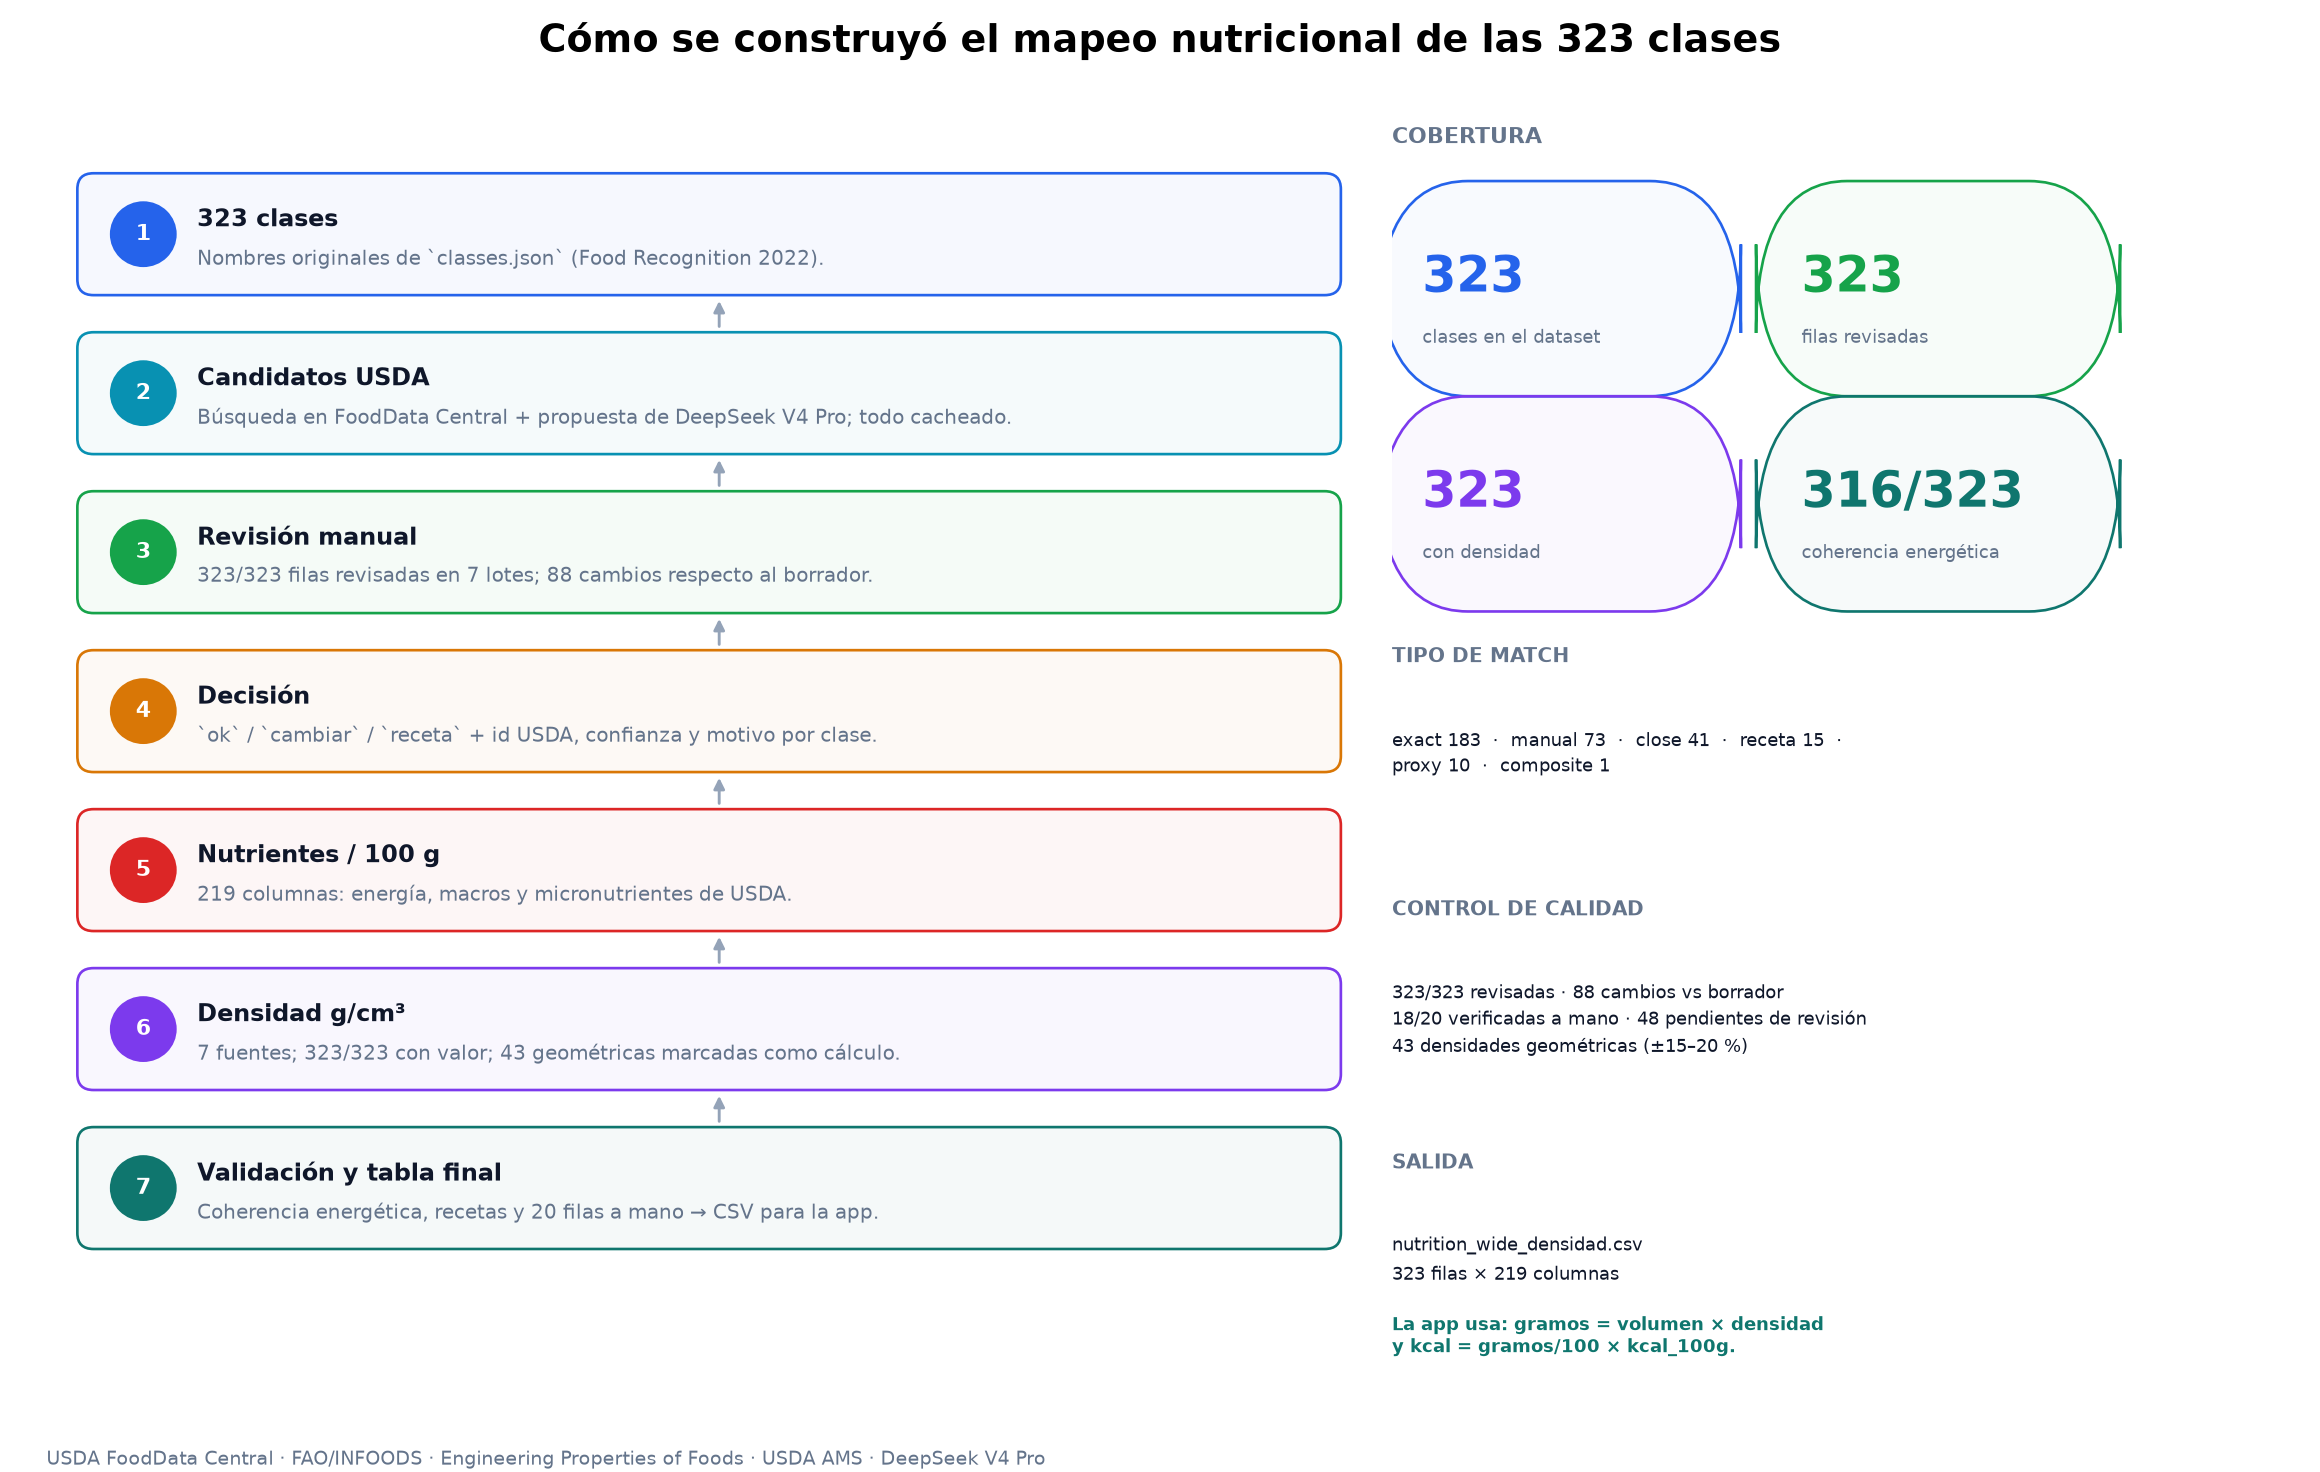
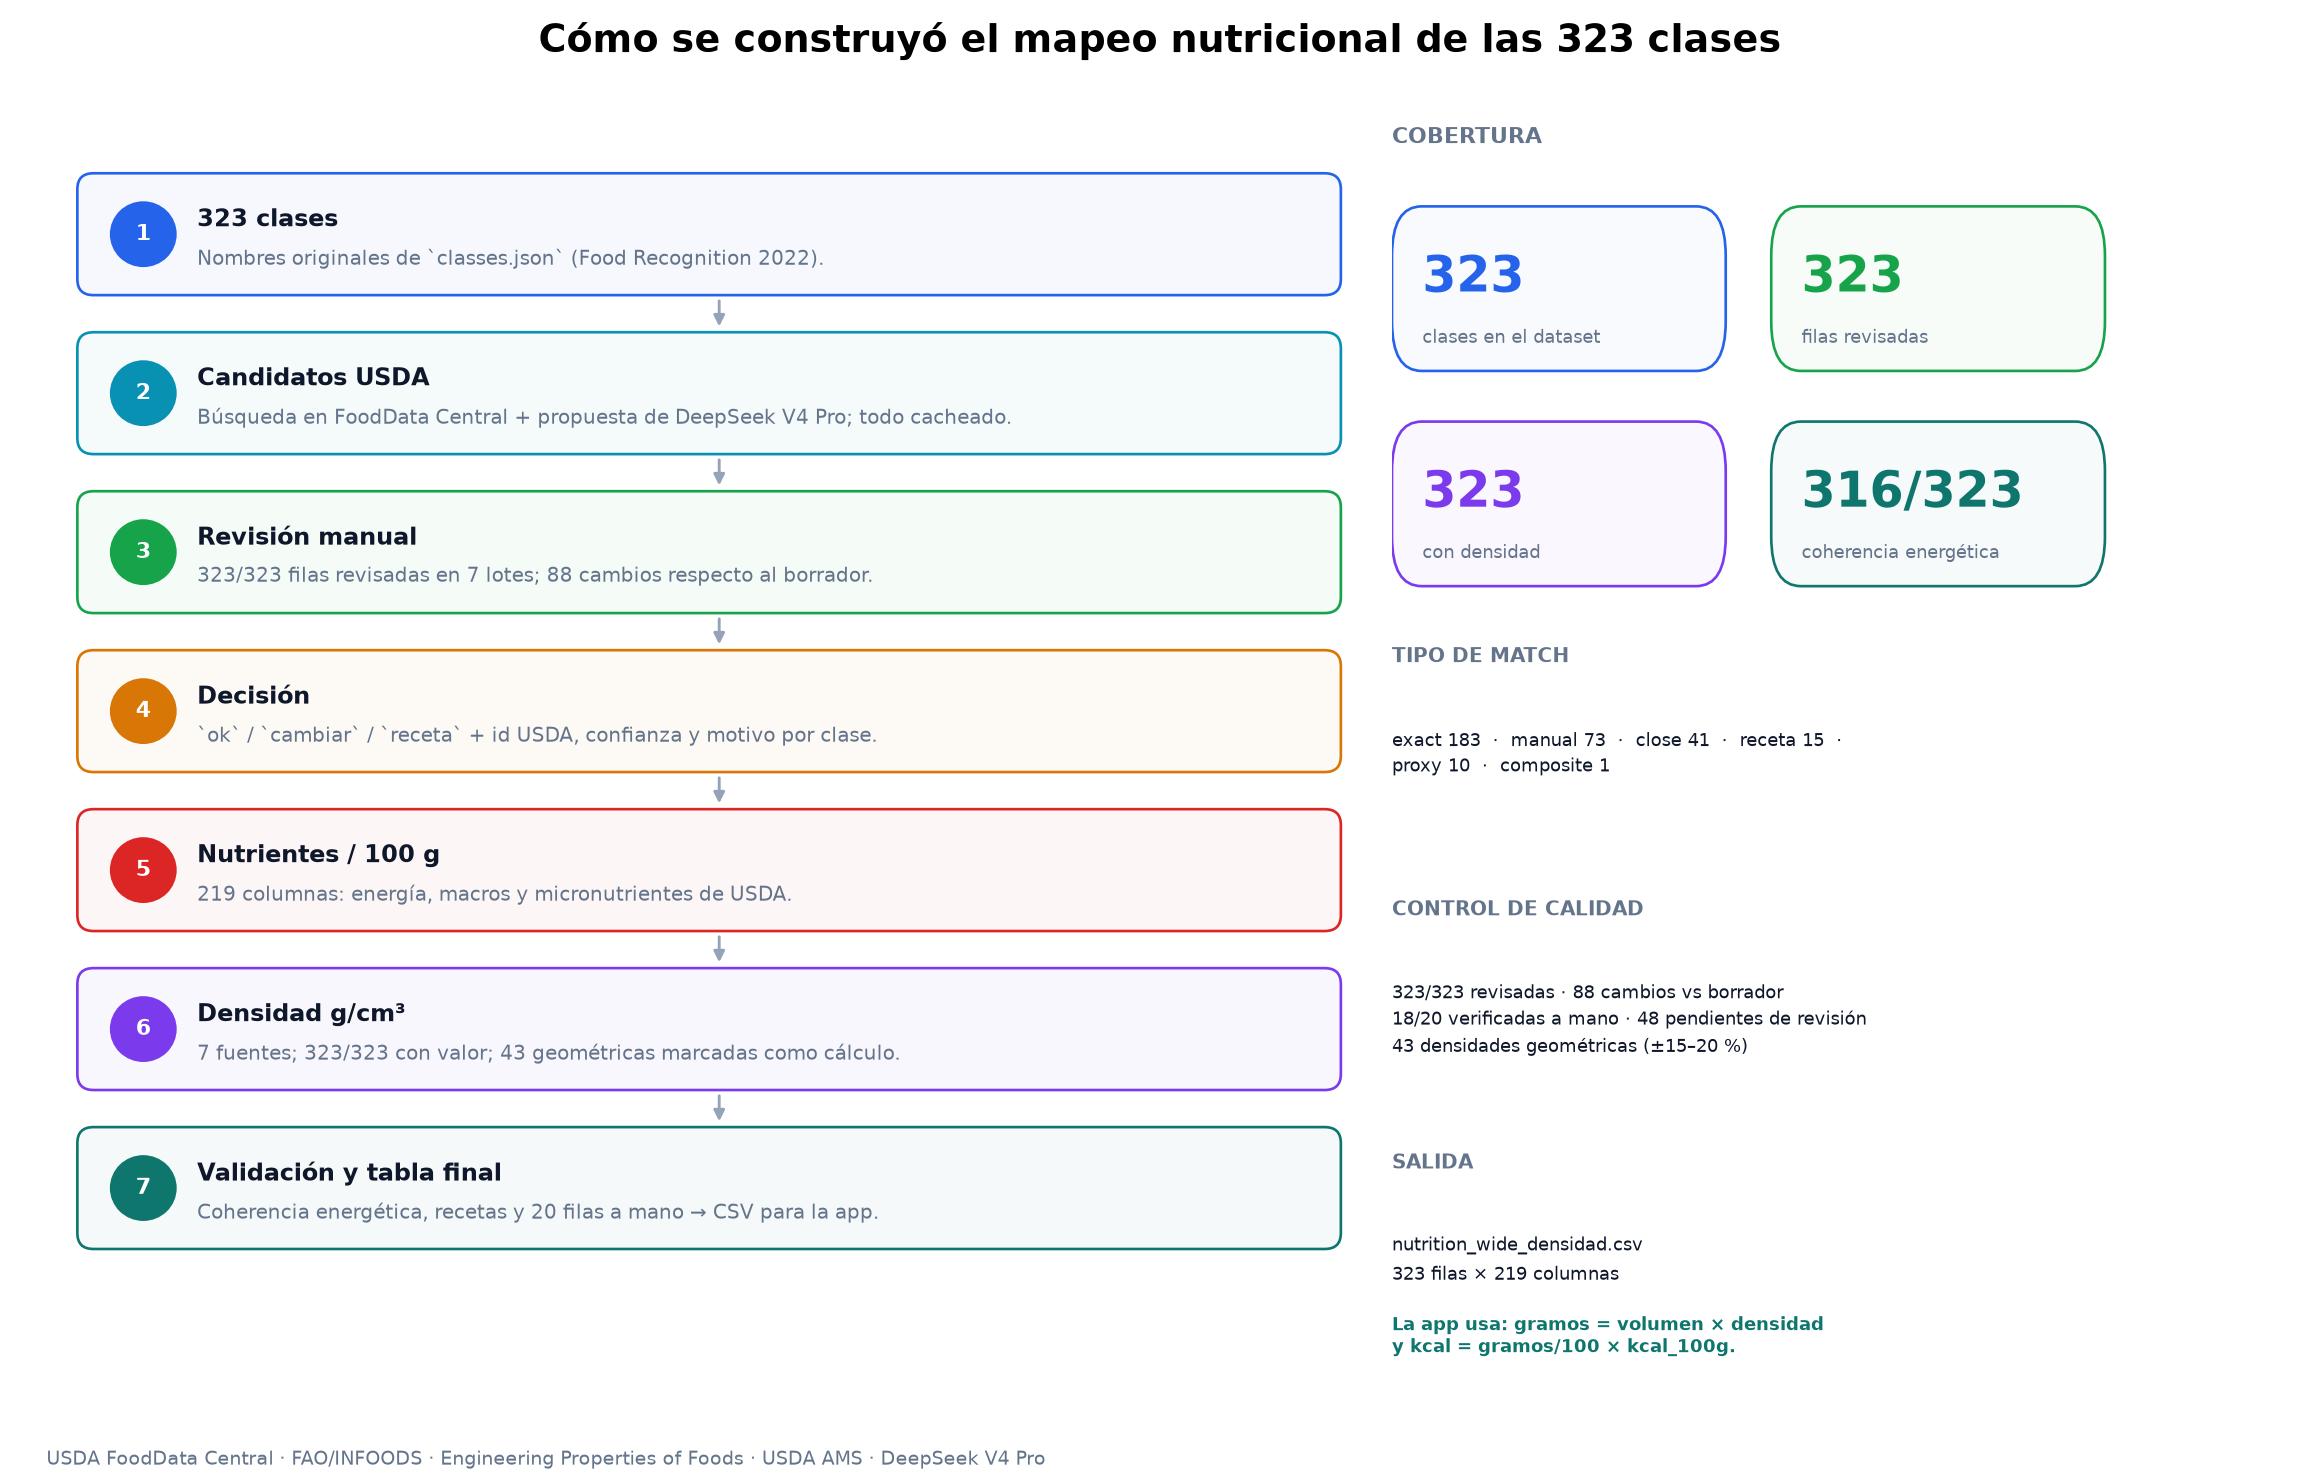
fix(research): regenerate Spanish figures with downward flow arrows
- 01/07: the arrowhead is drawn at xy, so the points were swapped and the
  arrows pointed up; they now follow the 1->7 top-to-bottom flow.
- generar_mapeo: the CSV path used parents[2], one level above the repo, and
  broke when the scripts moved to research/visual_resources.
- generar_mapeo: cap the corner radius to the box height and drop the patch
  padding on the stat cards, which drew crossing arcs and merged the cards.

diff --git a/research/visual_resources/generar_mapeo.py b/research/visual_resources/generar_mapeo.py
@@ -18,7 +18,8 @@ import pandas as pd
 from matplotlib.patches import Circle, FancyBboxPatch
 
 HERE = Path(__file__).resolve().parent
-CSV = HERE.parents[2] / "ml" / "data" / "nutrition_wide_densidad.csv"
+# `HERE` es `research/visual_resources`, así que la raíz del repo es parents[1].
+CSV = HERE.parents[1] / "ml" / "data" / "nutrition_wide_densidad.csv"
 
 COL = dict(ink="#0f172a", muted="#64748b", grid="#cbd5e1", blue="#2563eb",
            cyan="#0891b2", green="#16a34a", amber="#d97706", red="#dc2626",
@@ -39,8 +40,11 @@ def _save(fig, name, tight=True):
     print("  ·", path.name)
 
 
-def _box(ax, x, y, w, h, color, alpha=0.10, lw=1.2):
-    ax.add_patch(FancyBboxPatch((x, y), w, h, boxstyle="round,pad=0.02,rounding_size=0.12",
+def _box(ax, x, y, w, h, color, alpha=0.10, lw=1.2, pad=0.02):
+    # El radio de la esquina debe quedar muy por debajo de la altura de la caja;
+    # si no, los arcos se solapan y dibujan aspas dentro del recuadro.
+    radius = min(0.12, h * 0.30)
+    ax.add_patch(FancyBboxPatch((x, y), w, h, boxstyle=f"round,pad={pad},rounding_size={radius:.3f}",
                                 linewidth=lw, edgecolor=color, facecolor=color + f"{int(alpha*100):02x}"))
 
 
@@ -54,7 +58,8 @@ def _step(ax, i, y, title, body, color):
 
 
 def _stat_card(ax, x, y, w, h, number, label, color):
-    _box(ax, x, y, w, h, color, alpha=0.08)
+    # `pad=0` para que el relleno del parche no invada el hueco entre tarjetas.
+    _box(ax, x, y, w, h, color, alpha=0.08, pad=0.0)
     ax.text(x + 0.04, y + h * 0.56, number, fontsize=22, weight="bold", color=color, va="center")
     ax.text(x + 0.04, y + h * 0.20, label, fontsize=8.2, color=COL["muted"], va="center")
 
